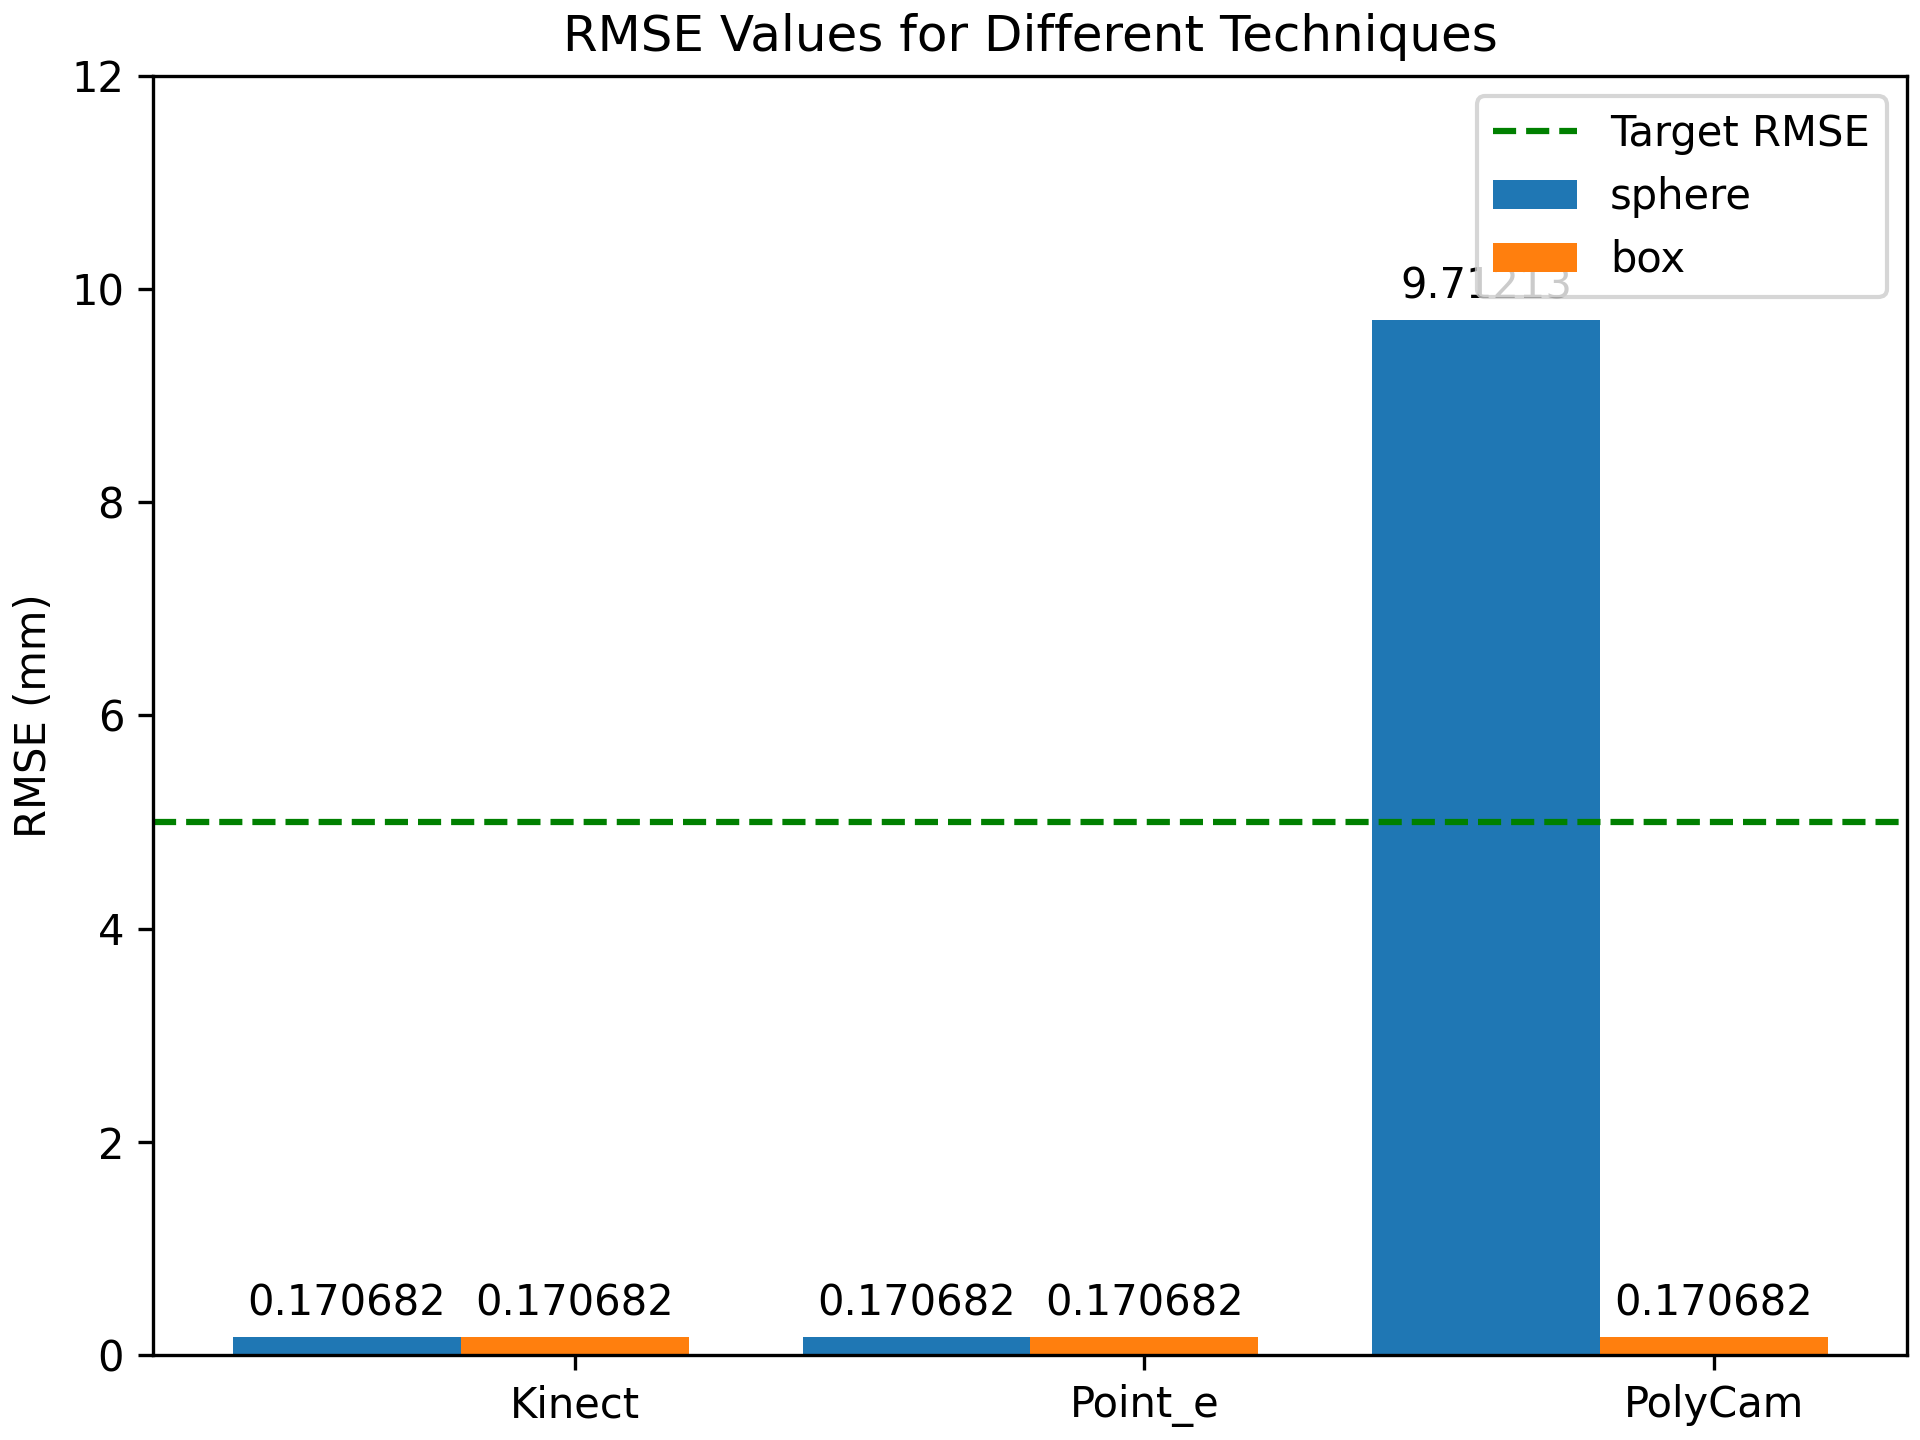
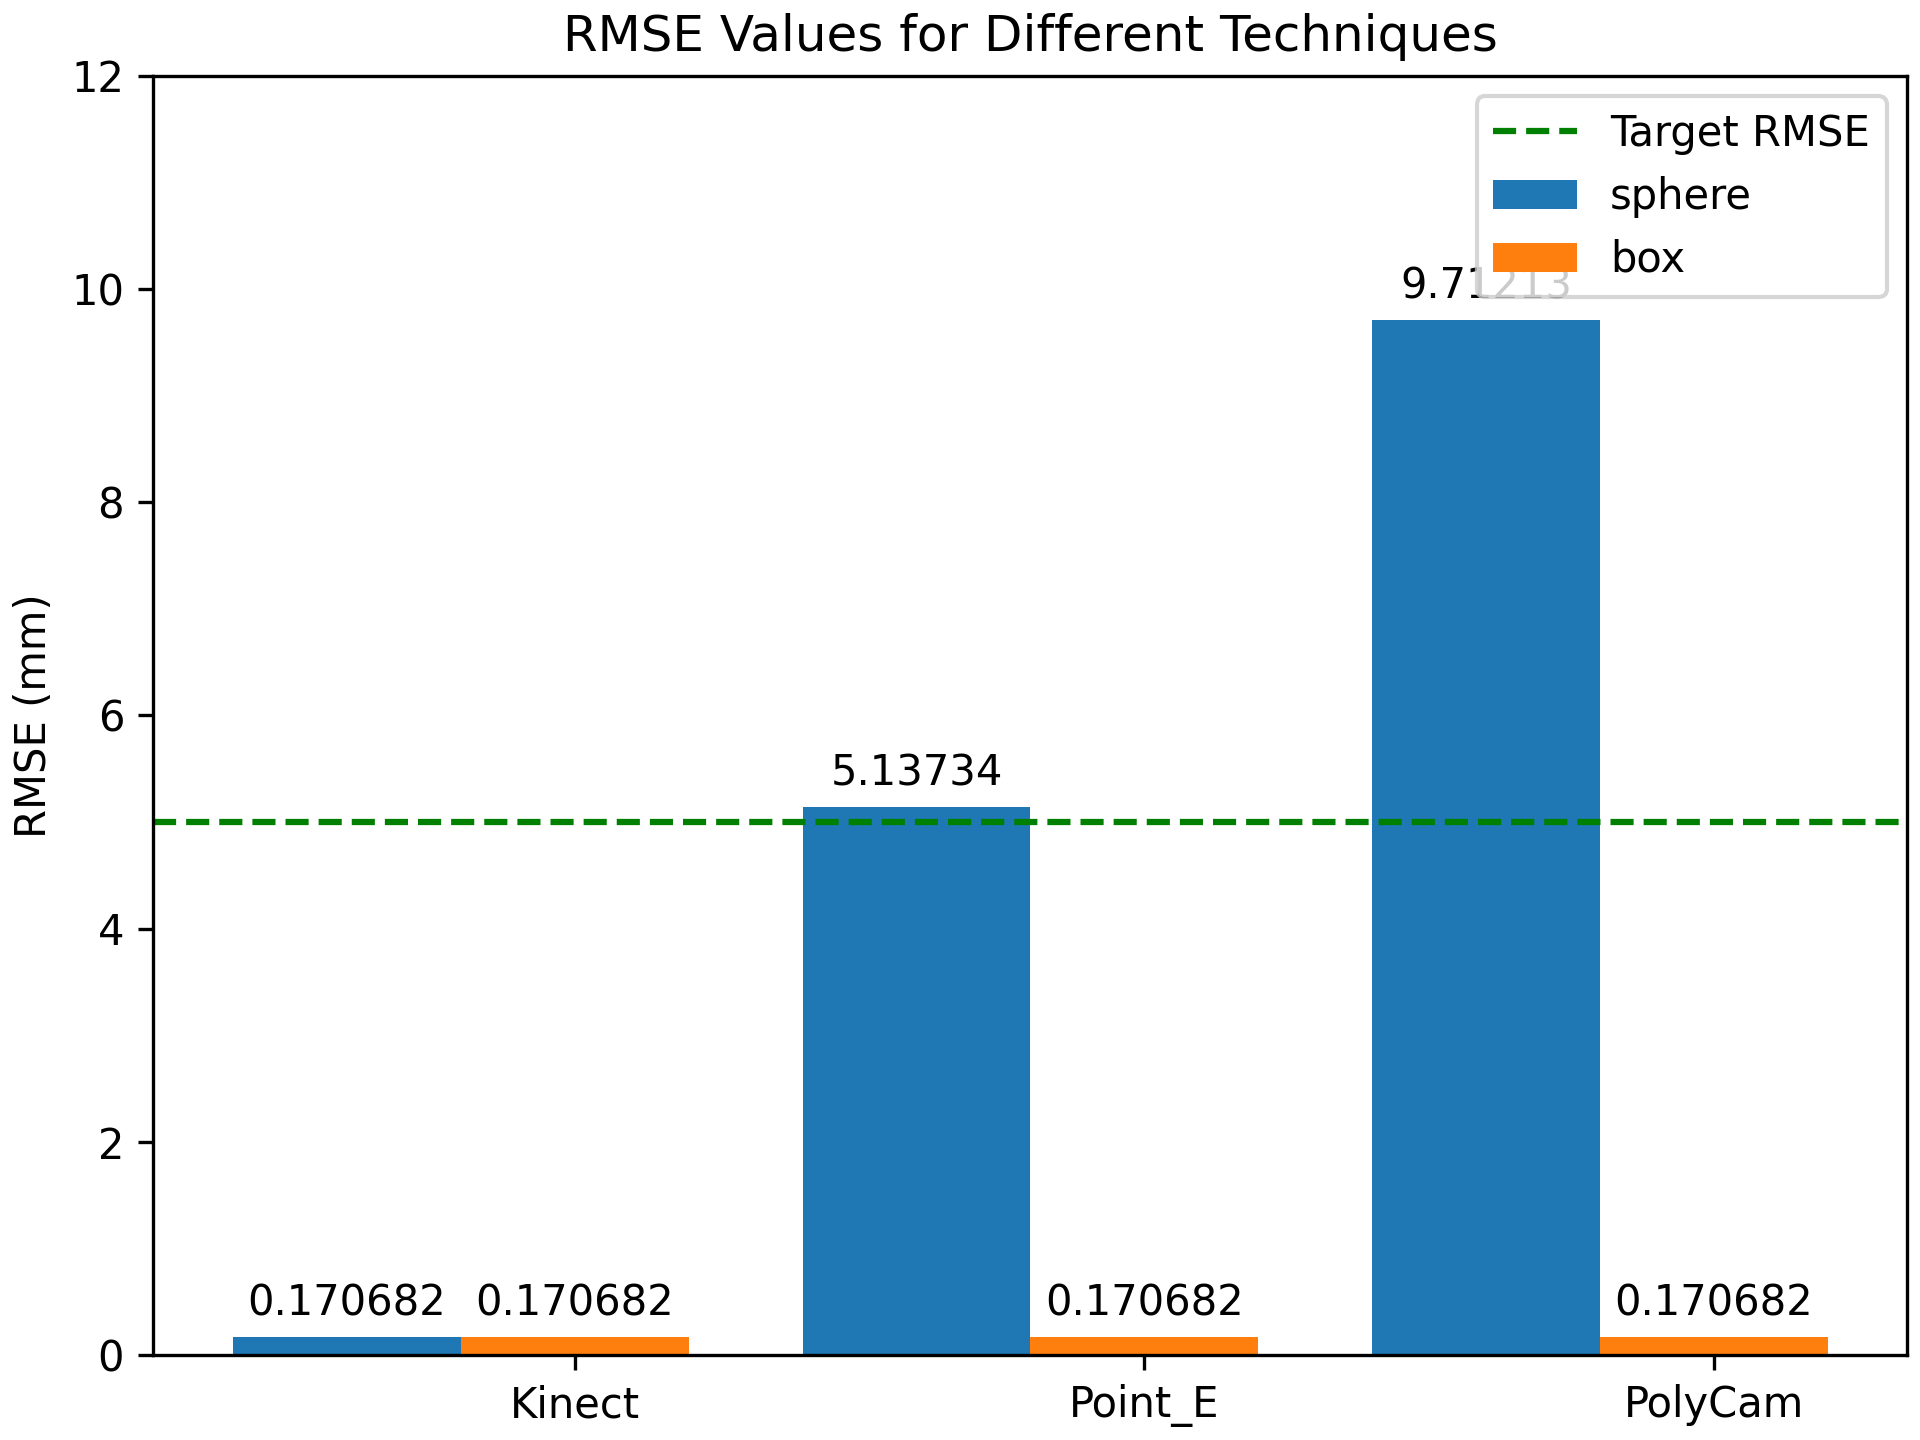
Point-E Accuracy Recorded

Changed region(s): [[0.4062, 0.5312, 0.5625, 0.9375], [0.5625, 0.9688, 0.5938, 1.0]]

diff --git a/Dissertation/Eval/Error.py b/Dissertation/Eval/Error.py
@@ -4,7 +4,11 @@ import numpy as np
 
 
 def CalculateRMSE(cloud1: o3d.geometry.PointCloud, cloud2: o3d.geometry.PointCloud) -> float:
-    """Calculates the root mean squared error between two point clouds.\nUses the Open3D compute_point_cloud_distance method. (Using a KDTree)"""
+    """
+Calculates the root mean squared error between two point clouds.
+\nUses the Open3D compute_point_cloud_distance method. (Using a KDTree)
+\nReturns the RMSE in meters.
+    """
 
     distances = cloud1.compute_point_cloud_distance(cloud2)
 
@@ -12,11 +16,15 @@ def CalculateRMSE(cloud1: o3d.geometry.PointCloud, cloud2: o3d.geometry.PointClo
 
     rmse = np.sqrt(mse)
 
-    return rmse * 1000  # Convert to mm.
+    return rmse
 
 
 def CalculateRMSE_brute(baseCloud: o3d.geometry.PointCloud, evalCloud: o3d.geometry.PointCloud) -> float:
-    """Calculates the root mean squared error between two point clouds.\nUses a brute force method."""
+    """
+Calculates the root mean squared error between two point clouds.
+\nUses a brute force method.
+\nReturns the RMSE in meters.
+    """
 
     sum = 0
 
@@ -36,4 +44,4 @@ def CalculateRMSE_brute(baseCloud: o3d.geometry.PointCloud, evalCloud: o3d.geome
 
     mse = sum / len(evalCloud.points)
 
-    return np.sqrt(mse) * 1000  # Convert to mm.
+    return np.sqrt(mse)

diff --git a/Dissertation/Utils/Format.py b/Dissertation/Utils/Format.py
@@ -16,3 +16,27 @@ def uniformSampleList(list: list, sampleSize: int) -> list:
     )
 
     return newSample
+
+
+def MilimeterToMeter(milimeter: float) -> float:
+    """Converts milimeter to meter."""
+
+    return milimeter / 1000
+
+
+def MeterToMilimeter(meter: float) -> float:
+    """Converts meter to milimeter."""
+
+    return meter * 1000
+
+
+def FeetToMeter(feet: float) -> float:
+    """Converts feet to meter."""
+
+    return feet / 3.28084
+
+
+def MeterToFeet(meter: float) -> float:
+    """Converts meter to feet."""
+
+    return meter * 3.28084
